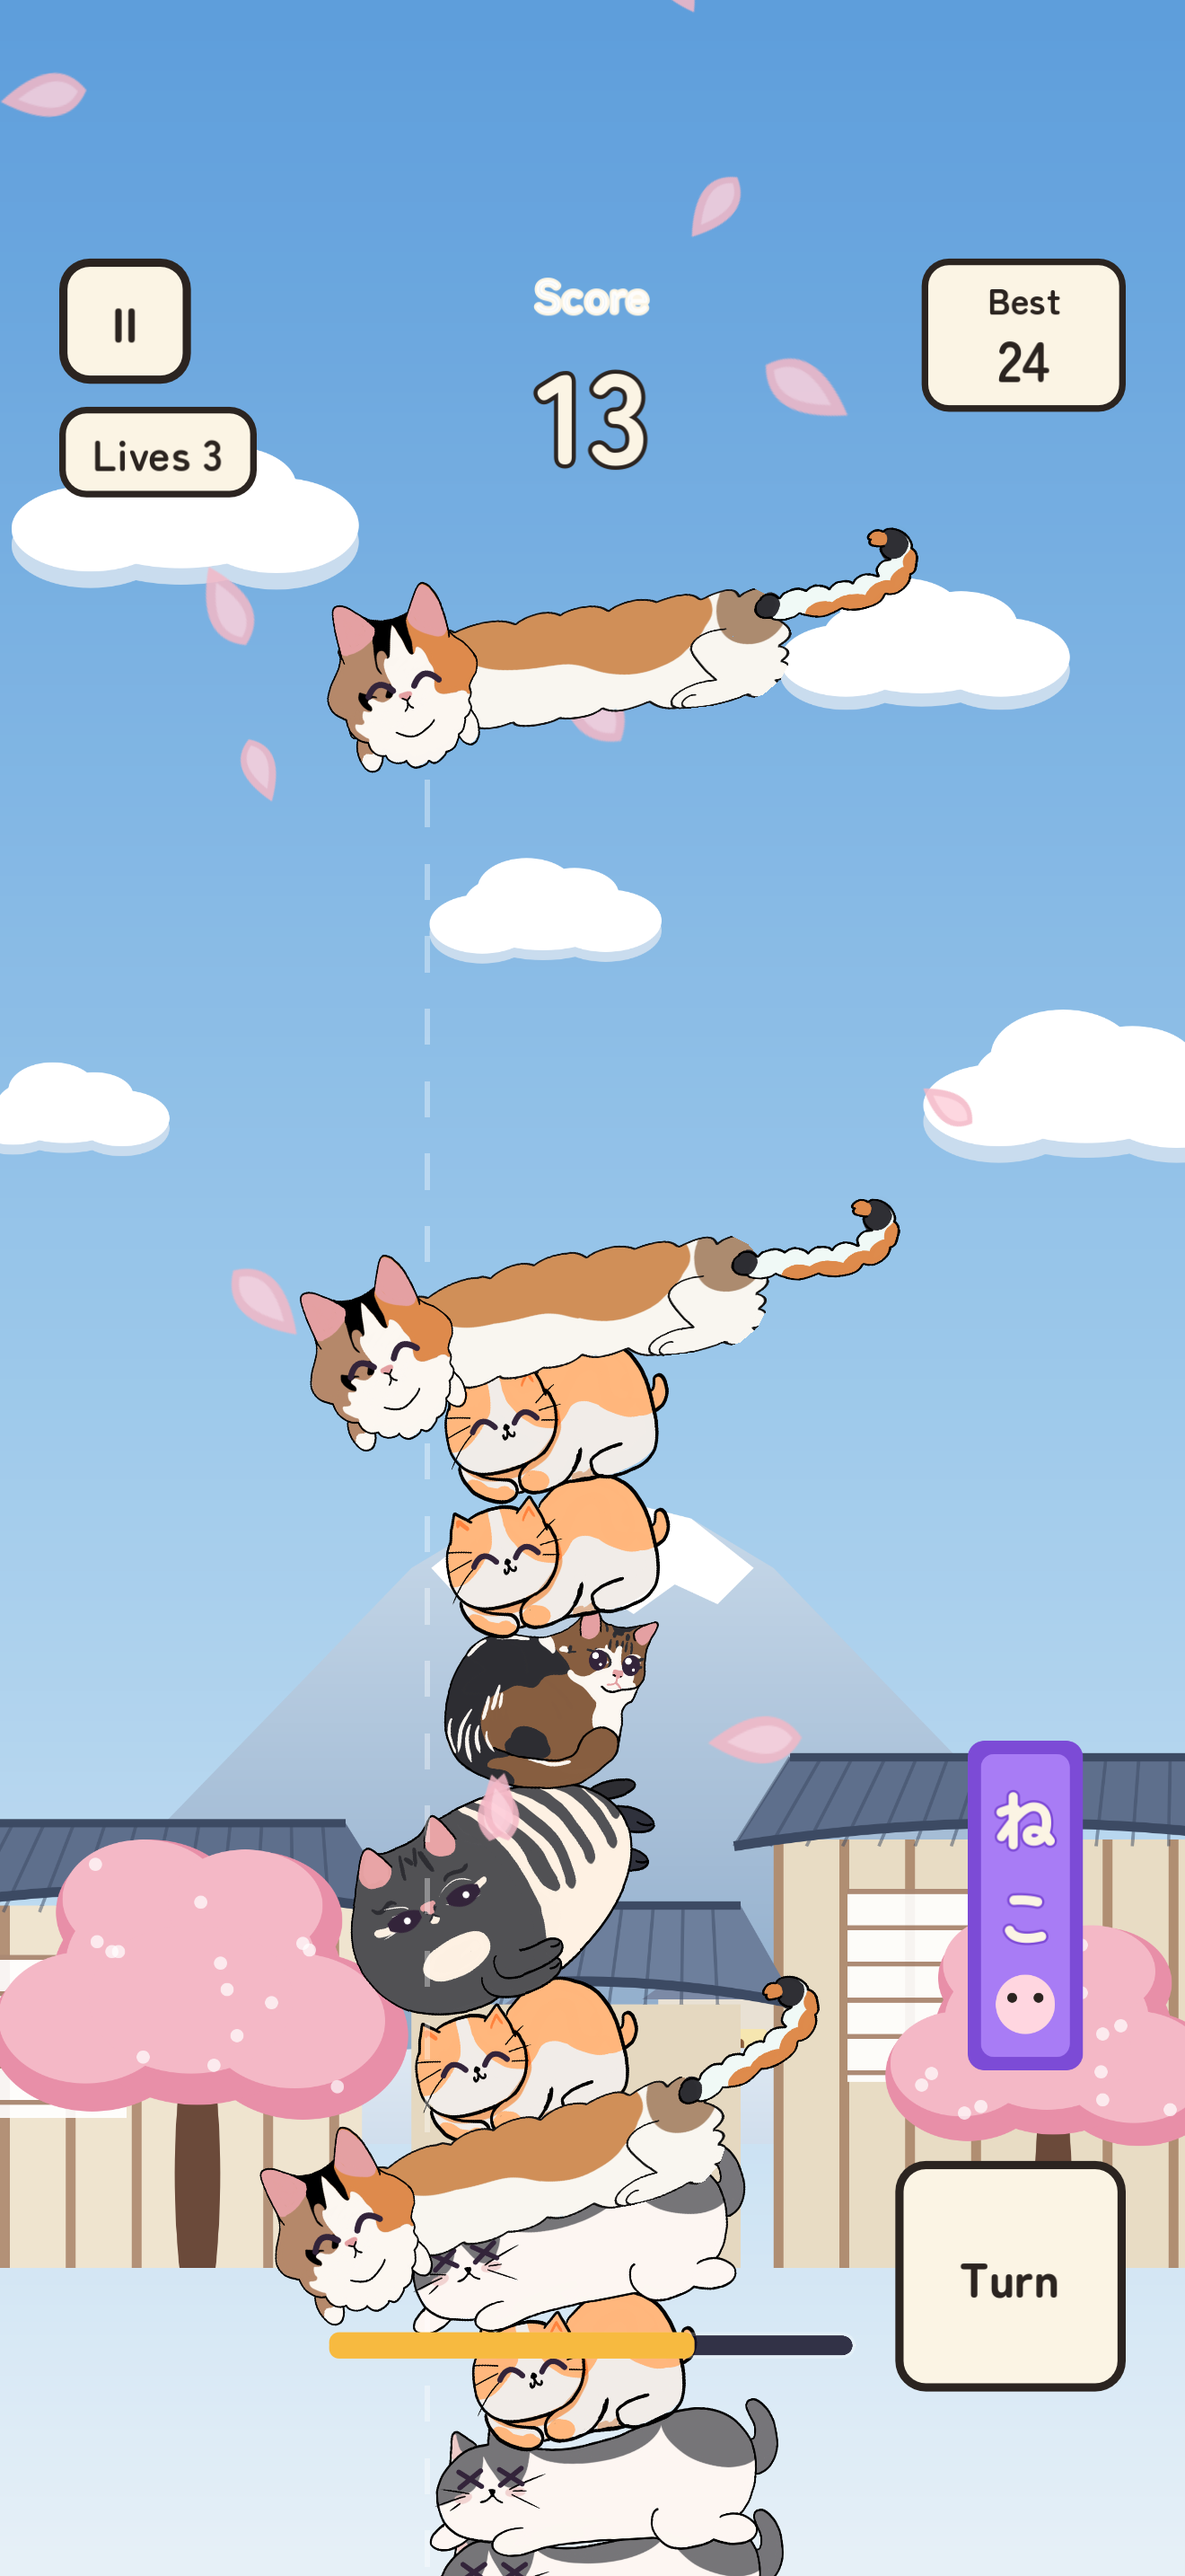
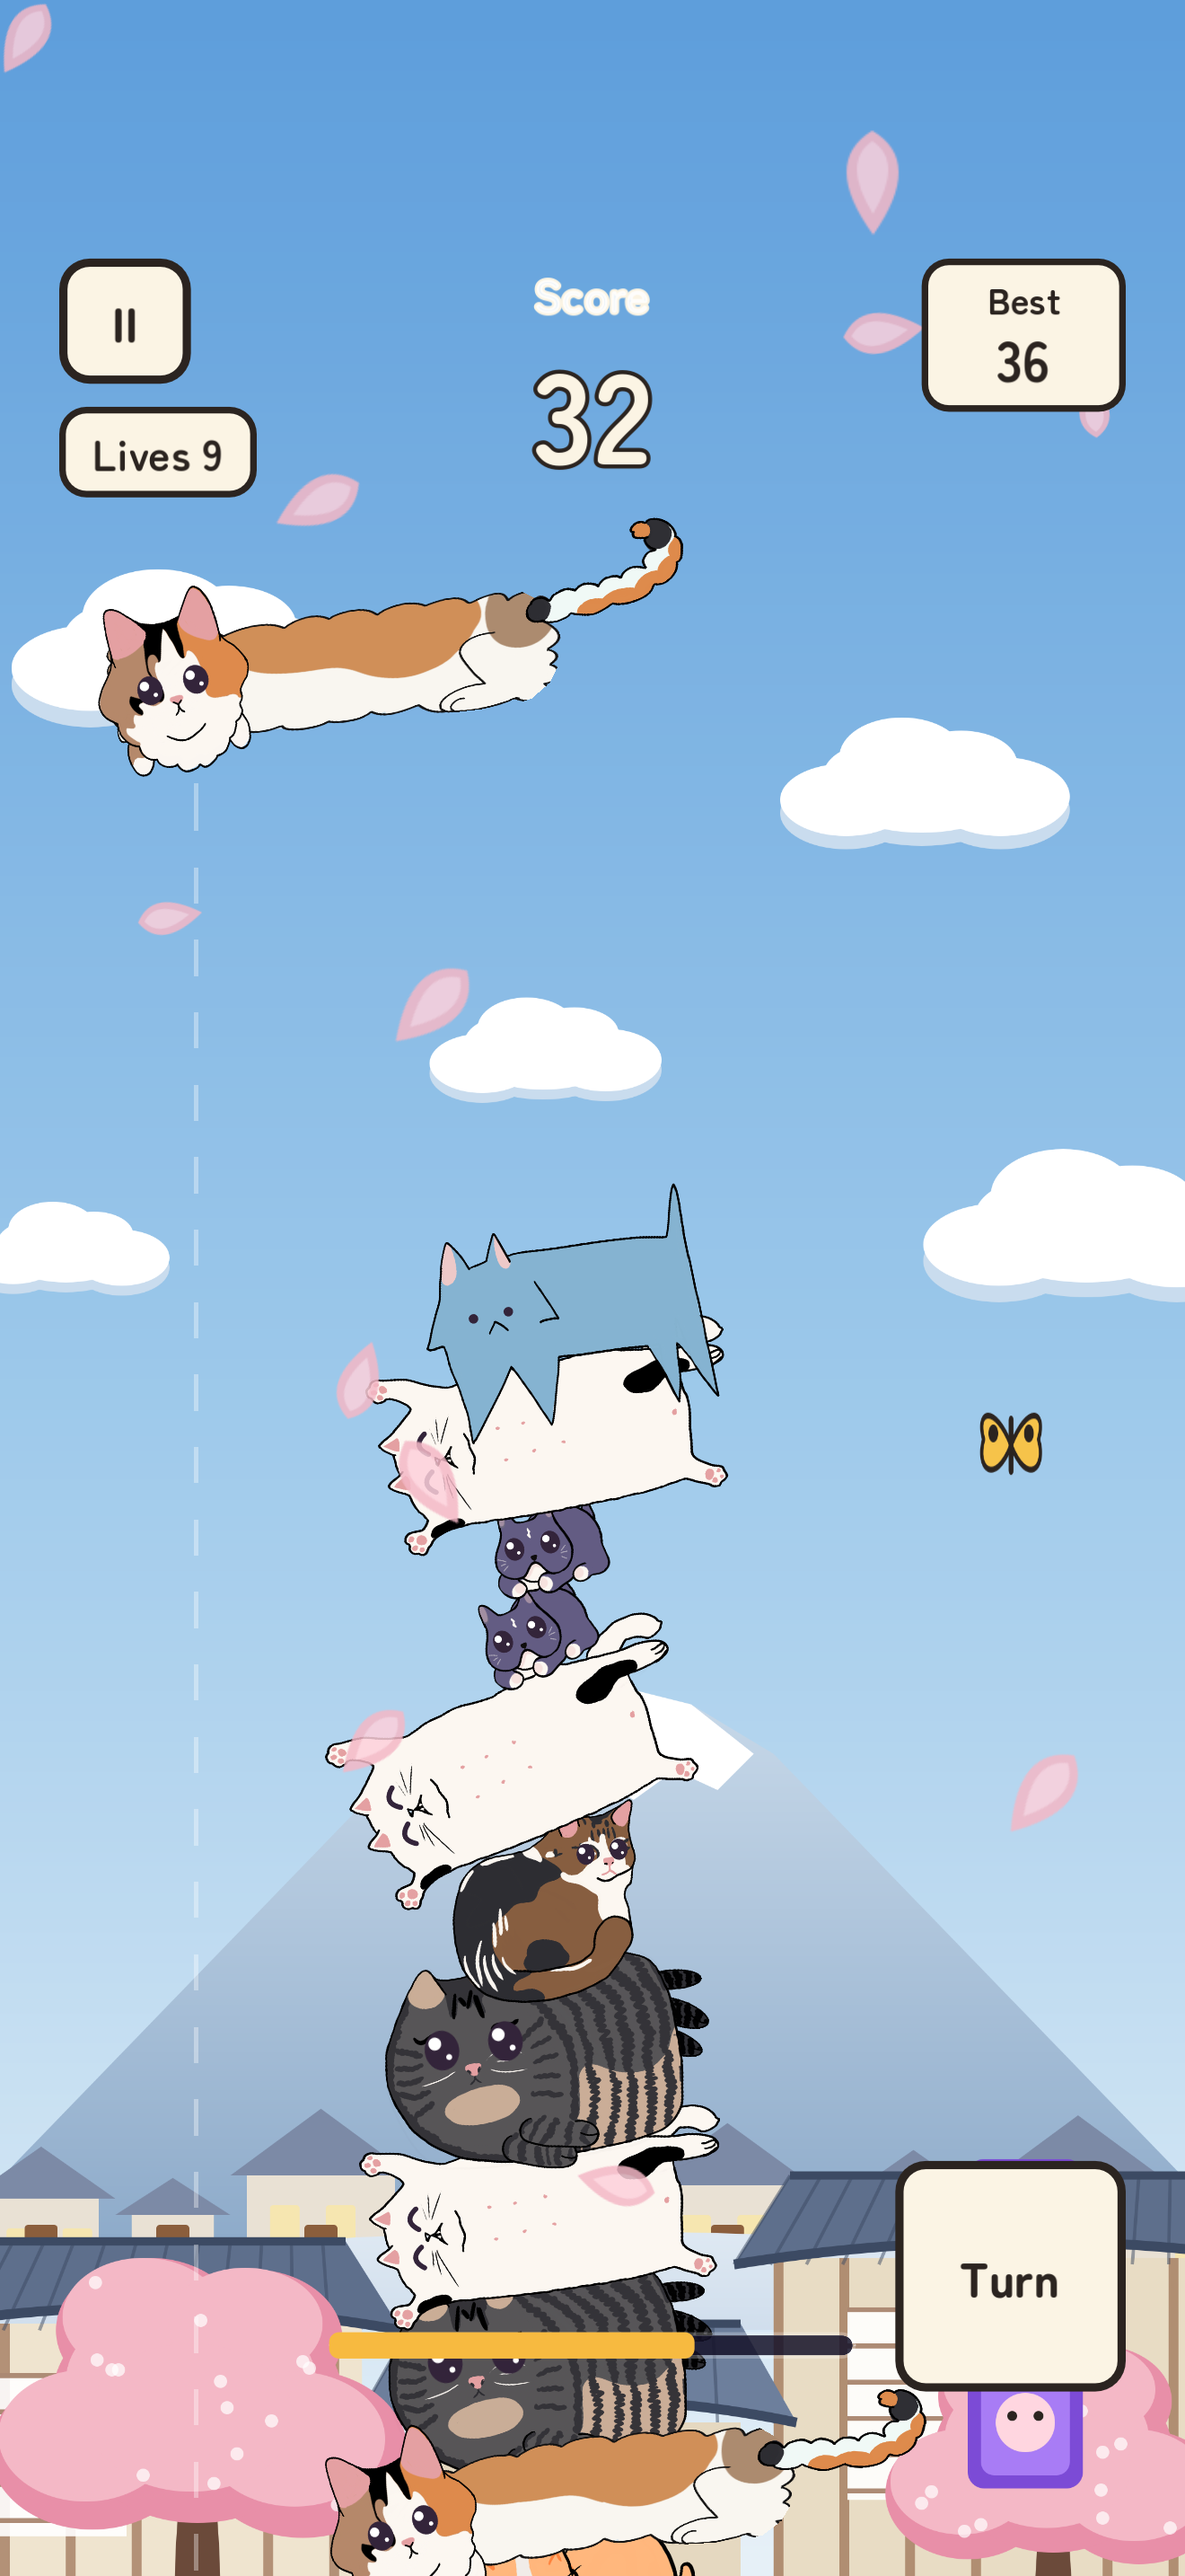
update screenshots in carosel?

diff --git a/content/apps/kitty-kaos/app.ts b/content/apps/kitty-kaos/app.ts
@@ -15,11 +15,11 @@ export const kittyKaos: StudioApp = {
   // Same order and captions as the App Store listing (catstack: store/screenshots, make captions).
   screenshots: [
     shot("01-title", "Stack the cats. They have opinions.", "The title screen: the Kitty Kaos logo, the menu, and a pile of cats spilling over the wall."),
-    shot("02-tower", "How high can you stack them?", "A tower of thirteen cats on the wall, with a long calico cat swaying in to drop."),
+    shot("02-tower", "How high can you stack them?", "A tower of thirty-two cats, with a long calico cat swaying in to drop."),
     shot("03-butterfly", "Catch the butterfly for a free Life", "A butterfly caught above the tower: +1 Life, with a burst of petals."),
     shot("04-collapse", "Gravity always wins eventually", "The tower tipping over, the cats wide-eyed with alarm."),
     shot("05-oh-no", "One Life saves the whole stack", "Oh no! card: use a Life to save the stack, or let it fall."),
-    shot("06-new-cat", "Unlock new cats as you play", "New cat! card: Pastis, a tortoiseshell, unlocked over a tall tower."),
+    shot("06-new-cat", "Unlock new cats as you play", "New cat! card: Kaju, a long calico, unlocked as the twentieth cat lands."),
     shot("07-cats", "Collect every hand-drawn cat", "The Cats screen: every cat on a shelf over the town, each with its name."),
   ],
   facts: [
